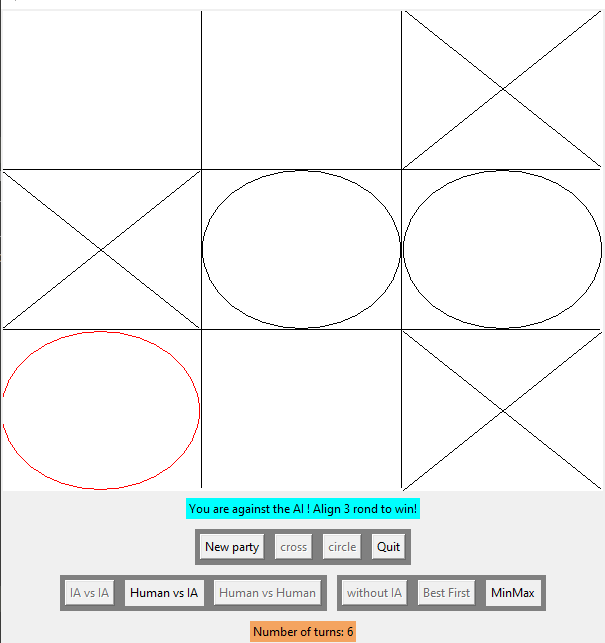
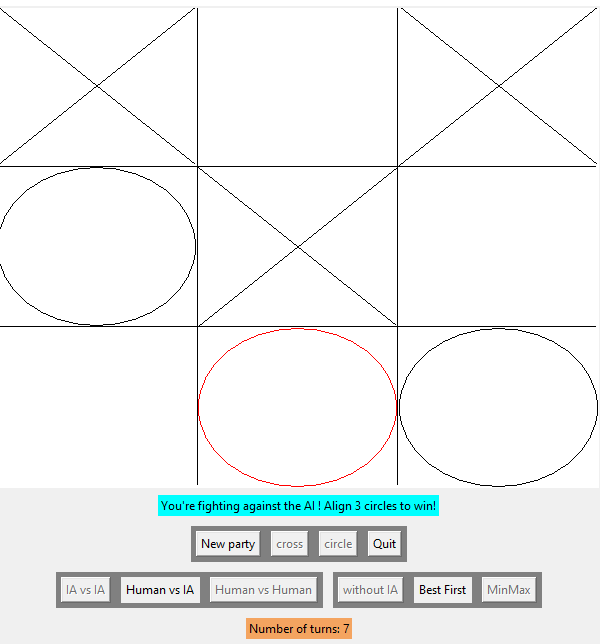
trad error

diff --git a/code.py b/code.py
@@ -145,7 +145,7 @@ class Interface(tk.Tk):
         self.update()
 
     def choixBlanc(self):
-        self.morpion.joueur='rond'
+        self.morpion.joueur='circl'
         self.morpion.reset()
         self.buttonNoir.config(state='disabled')
         self.buttonBlanc.config(state='disabled')
@@ -178,7 +178,7 @@ class Interface(tk.Tk):
                 self.choixMode = 'HVSAI'
                 self.choixIA()
         else:
-            self.zoneTexte.config(text="You are against the AI ! Align 3 " + self.morpion.joueur + " to win!", background='cyan')
+            self.zoneTexte.config(text="You're fighting against the AI ! Align 3 " + self.morpion.joueur + "es to win!", background='cyan')
             self.morpion.is_active = True
             self.morpion.HumanVSAI()
         
@@ -241,10 +241,10 @@ class Interface(tk.Tk):
                 self.HumanVSAI()
 
     def tracer(self, forme, case, color):
-        # Trace la forme dans la case, rond ou cross
+        # Trace la forme dans la case, circl ou cross
         try:
             assert self.morpion.is_active, "Choose a form to play"
-            if forme == 'rond':
+            if forme == 'circl':
                 self.canvas.create_oval(*(self.liste_cases[case]), outline=color)
             else:
                 self.canvas.create_line(*(self.liste_cases[case]), fill=color)
@@ -285,8 +285,8 @@ class Morpion():
     def __init__(self,interface):
         self.interface = interface
         self.winPossibilities = [[0,1,2],[3,4,5],[6,7,8],[0,3,6],[1,4,7],[2,5,8],[0,4,8],[2,4,6]] # Liste de toutes les combinaisons permettant de gagner
-        self.joueurs = ['rond','cross']
-        self.joueur = '' # 'rond' ou 'cross'
+        self.joueurs = ['circl','cross']
+        self.joueur = '' # 'circl' ou 'cross'
         self.AI = None
         self.is_active = False
         self.profondeur = 6
@@ -294,7 +294,7 @@ class Morpion():
         
     def reset(self):
         """Permet de réinitialiser les variables avant de débuter une nouvelle partie"""
-        self.Vo = [] # Vecteur des ronds
+        self.Vo = [] # Vecteur des circls
         self.Vx = [] # Vecteur des cross
         self.VV = [i for i in range(9)] # Vecteur des cases vides
         self.case_a_vider = None
@@ -303,7 +303,7 @@ class Morpion():
         if self.joueur_start == 1:
             self.tile = self.joueur # self.tile correspond au pion qui doit être joué au prochain tour
         else:
-            self.tile = 'cross' if self.joueur == 'rond' else 'rond'
+            self.tile = 'cross' if self.joueur == 'circl' else 'circl'
         self.compteur = 0
         self.case = None
         self.vainqueur = None
@@ -323,7 +323,7 @@ class Morpion():
         self.AI = 'minMax'
         
     def playerTile(self,tile):
-        """Permet de choisir si on joue en tant que rond ou cross"""
+        """Permet de choisir si on joue en tant que circl ou cross"""
         if tile in self.joueurs:
             self.joueur = tile
             
@@ -349,7 +349,7 @@ class Morpion():
             
     def updateHistorique(self):
         """Actualise l'historique"""
-        if self.tile == 'rond':
+        if self.tile == 'circl':
             self.Vo.sort()
             self.historique.append(self.Vo.copy()) # mémorise la liste qui vient d'être modifiée
         else:
@@ -366,17 +366,17 @@ class Morpion():
                 if self.case != None:
                     # place_tile() permute la valeur de self.tile
                     # Mais si la case n'a pas été jouée (i.e. self.case != None), alors il faut repermuter self.tile
-                    self.tile = 'rond' if self.tile == 'cross' else 'cross'
+                    self.tile = 'circl' if self.tile == 'cross' else 'cross'
             elif self.case in self.VV:
                 # Si self.case_a_vider != None, alors il faut supprimer le pion de cette case pour la replacer dans self.case, en vérifiant que self.case soit libre
                 self.remove_tile() # Supprime le pion dans self.case_a_vider
                 self.place_tile() # Rajoute un pion dans self.case, ou sélectionne une nouvelle valeur pour self.case_a_vider
                 if self.case_a_vider != None:
                     # Si une nouvelle case_a_vider a été sélectionné, il faut permuter la valeur de self.tile
-                    self.tile = 'rond' if self.tile == 'cross' else 'cross'
+                    self.tile = 'circl' if self.tile == 'cross' else 'cross'
             elif self.case == self.case_a_vider: # Permet de déselectionner la case à vider en recliquant dessus
                 self.interface.tracer(self.tile, self.case_a_vider, 'black')
-                if self.tile == 'rond' and self.case in self.Vo or self.tile == "cross" and self.case in self.Vx:
+                if self.tile == 'circl' and self.case in self.Vo or self.tile == "cross" and self.case in self.Vx:
                     self.case_a_vider = None
                     
             if self.playMode == "HVSAI" and self.case == None and self.vainqueur == None: # La machine joue si le joueur humain a placé/déplacé un pion
@@ -401,7 +401,7 @@ class Morpion():
         # Permute la valeur de self.tile pour que le prochain tour corresponde à celui de l'adversaire
         if self.winner():
             self.interface.editGagnant()
-        self.tile = 'rond' if self.tile == 'cross' else 'cross' # Change la cross en rond et vice-versa
+        self.tile = 'circl' if self.tile == 'cross' else 'cross' # Change la cross en circl et vice-versa
             
     def remove_tile(self):
         """Supprime le pion présent dans self.case_a_vider"""
@@ -414,7 +414,7 @@ class Morpion():
       
     def human_place_tile(self):
         """Appelé lorsqu'un humain veut placer un pion"""
-        if self.tile == 'rond': # Sélectionne la couleur du pion à jouer
+        if self.tile == 'circl': # Sélectionne la couleur du pion à jouer
             if len(self.Vo)>2:
                 # Cas où on selectionne un pion à déplacer (si on a 3 pions placés)
                 if self.case in self.Vo:
@@ -464,9 +464,9 @@ class Morpion():
         case = self.VV[0] # Case choisit par défaut
         g = self.calculate_singleG(case)
         
-        if self.tile == 'rond' and len(self.Vo)>2 or self.tile == 'cross' and len(self.Vx)>2:
+        if self.tile == 'circl' and len(self.Vo)>2 or self.tile == 'cross' and len(self.Vx)>2:
             for i in range(3): # On essaye de voir quel pion parmi les 3 déjà posés il est judicieux de déplacer
-                if self.tile == 'rond':
+                if self.tile == 'circl':
                     self.Vo.sort() # Ordonne la liste pour éviter de changer l'indice des elements de la liste
                     self.case_a_vider = self.Vo[i]
                     self.Vo.remove(self.case_a_vider) # Simule la suppression d'un des pions déjà placés
@@ -477,7 +477,7 @@ class Morpion():
                 
                 g,case = self.bestFirst_calculateG(g,case) # Calcule la meilleur case à jouer
                 
-                if self.tile == 'rond':
+                if self.tile == 'circl':
                     self.Vo.append(self.case_a_vider) # Remet en place le pion dont ça suppression avait été simulée (sera réellement supprimée une fois qu'on est sûr de sa suppression)
                 else:
                     self.Vx.append(self.case_a_vider) # Remet en place le pion dont ça suppression avait été simulée (sera réellement supprimée une fois qu'on est sûr de sa suppression)
@@ -488,7 +488,7 @@ class Morpion():
             g,case = self.bestFirst_calculateG(g,case) # On a pas de pion a supprimer car il y a moins de 3 pions dans le plateau
             
         self.VV.remove(case) # Rend la case choisie occupée
-        if self.tile == 'rond':
+        if self.tile == 'circl':
             self.Vo.append(case)
         else:
             self.Vx.append(case)
@@ -496,14 +496,14 @@ class Morpion():
         
     def calculate_singleG(self,caseLibre):
         """Calcule la valeur de g correspondant à la case libre"""
-        if self.tile == 'rond':
+        if self.tile == 'circl':
             self.Vo.append(caseLibre)
         else:
             self.Vx.append(caseLibre)
 
         NL1,NL2,NC1,NC2,ND11,ND12,ND21,ND22 = 0,0,0,0,0,0,0,0
         case_x,case_y = caseLibre//3, caseLibre%3 # Numéro de la ligne et de la colonne de la case libre
-        # On part du principe que self.tile == 'rond'. Si ce n'est pas le cas, on intervertit NL1 et NL2, NC1 et NC2, ND1 et ND2
+        # On part du principe que self.tile == 'circl'. Si ce n'est pas le cas, on intervertit NL1 et NL2, NC1 et NC2, ND1 et ND2
         for i in self.Vo:
             i_x,i_y = i//3, i%3 # Numéro de la ligne et de la colonne du pion
             if i_x == case_x:
@@ -525,13 +525,13 @@ class Morpion():
             if j in [2,4,6] and caseLibre in [2,4,6]:
                 ND22 += 1 # La case libre possède un pion ennemi dans sa deuxième diagonale
         
-        if self.tile == 'rond':
+        if self.tile == 'circl':
             self.Vo.remove(caseLibre)
         else:
             self.Vx.remove(caseLibre)
             
-        if not self.tile == 'rond':
-            # On intervertit les indices, parce qu'on était partit du principe que les pions alliés étaient les ronds       
+        if not self.tile == 'circl':
+            # On intervertit les indices, parce qu'on était partit du principe que les pions alliés étaient les circls       
             NL1,NL2 = NL2,NL1
             NC1,NC2 = NC2,NC1
             ND11,ND12 = ND12,ND11
@@ -581,18 +581,18 @@ class Morpion():
         if self.profondeur == 0 or self.profondeur > 6: # Problème de profondeur, on arrête donc l'utilisation de minMax
             print("Problème de profondeur lors du choix de l'utilisation de l'algorithme minMax")
             return
-        plateau = {"cross":self.Vx,"rond":self.Vo,"vide":self.VV} # Regrouppement des 3 listes en un dictionnaire
+        plateau = {"cross":self.Vx,"circl":self.Vo,"vide":self.VV} # Regrouppement des 3 listes en un dictionnaire
         plateauAJouer, valeur = self.executeMinMax(plateau, self.profondeur, "max", self.tile) # Appel récursif pour étudier la meilleur case à jouer en profondeur
         
         # Remplace les anciennes listes Vx,Vo,VV par celles renvoyées par l'algotithme minMax
         self.Vx = plateauAJouer['cross']
-        self.Vo = plateauAJouer['rond']
+        self.Vo = plateauAJouer['circl']
         self.VV = plateauAJouer['vide']
         self.repaint()
         
     def executeMinMax(self, plateau, profondeur, mode, color):
         """Partie récursive de l'algorithme minMax"""
-        inverseColor = 'rond' if color == 'cross' else 'cross'        
+        inverseColor = 'circl' if color == 'cross' else 'cross'        
         inverseMode = 'max' if mode == 'min' else 'min'
         if len(plateau["vide"]) < 8: #Si le plateau n'est pas vierge:
             if profondeur == 0 or self.gagne(inverseColor, plateau):
@@ -642,7 +642,7 @@ class Morpion():
         
     def score_plateau(self, plateau,color):
         """Calcule le score d'un plateau dont la couleur qui vient d'être jouée correspond à color"""
-        inverseColor = 'rond' if color == 'cross' else 'cross'
+        inverseColor = 'circl' if color == 'cross' else 'cross'
         if self.gagne(color, plateau):
             return math.inf
         elif self.gagne(inverseColor, plateau):
@@ -692,7 +692,7 @@ class Morpion():
         liste = []
         Vx,Vo,VV = plateau.values()
         for caseVide in plateau["vide"]:
-            newPlateau = {"cross":Vx.copy(),"rond":Vo.copy(),"vide":VV.copy()}
+            newPlateau = {"cross":Vx.copy(),"circl":Vo.copy(),"vide":VV.copy()}
             newPlateau[color].append(caseVide)
             newPlateau["vide"].remove(caseVide)
             liste.append(newPlateau)
@@ -705,19 +705,19 @@ class Morpion():
         for caseOccup_indice in range(3): # Essaie de déplacer tous pions
             plateau[color].sort() # Ordonne la liste pour ne pas modifier l'indice des éléments
             caseOccup = plateau[color][caseOccup_indice]
-            if color == 'rond':
+            if color == 'circl':
                 Vo.remove(caseOccup)
             else:
                 Vx.remove(caseOccup)
             VV.append(caseOccup)
             for caseVide in plateau["vide"]:
                 if caseVide != caseOccup: # Vérifie qu'on ne crée pas le même plateau que celui de base
-                    newPlateau = {"cross":Vx.copy(),"rond":Vo.copy(),"vide":VV.copy()}
+                    newPlateau = {"cross":Vx.copy(),"circl":Vo.copy(),"vide":VV.copy()}
                     newPlateau[color].append(caseVide)
                     newPlateau["vide"].remove(caseVide)
                     liste.append(newPlateau)
             VV.remove(caseOccup)
-            if color == 'rond':
+            if color == 'circl':
                 Vo.append(caseOccup)
             else:
                 Vx.append(caseOccup)
@@ -730,13 +730,13 @@ class Morpion():
             if case in self.Vx:
                 self.interface.tracer('cross', case, 'black')
             elif case in self.Vo:
-                self.interface.tracer('rond', case, 'black')
+                self.interface.tracer('circl', case, 'black')
             
     def winner(self):
         """Vérifie s'il y a un gagnant dans la configuration actuelle des listes"""
         self.Vo.sort() # Ordonne la liste pour la comparer avec les listes contenues dans self.winPossibilities
         if self.Vo in self.winPossibilities:
-            self.vainqueur = "rond"
+            self.vainqueur = "circl"
             return True
         self.Vx.sort()
         if self.Vx in self.winPossibilities: # Ordonne la liste pour la comparer avec les listes contenues dans self.winPossibilities
@@ -757,13 +757,13 @@ class Morpion():
         return False
     
     def endGame(self):
-        plateau = {"cross":self.Vx,"rond":self.Vo,"vide":self.VV} # Regrouppement des 3 listes en un dictionnaire
+        plateau = {"cross":self.Vx,"circl":self.Vo,"vide":self.VV} # Regrouppement des 3 listes en un dictionnaire
         pointscross = 8-self.gagnantsPossibles(plateau,"cross") # Il y a 8 façons de gagner moins les lignes/colonnes/diagonales bloquées par l'ennemi
-        pointsRond = 8-self.gagnantsPossibles(plateau,"rond")
-        if pointscross > pointsRond:
-            self.vainqueur = "circle ("+str(pointscross)+" points vs "+str(pointsRond)+" points)."
+        pointscircl = 8-self.gagnantsPossibles(plateau,"circl")
+        if pointscross > pointscircl:
+            self.vainqueur = "circl ("+str(pointscross)+" points vs "+str(pointscircl)+" points)."
         else:
-            self.vainqueur = "cross ("+str(pointsRond)+" points vs "+str(pointscross)+" points)."
+            self.vainqueur = "cross ("+str(pointscircl)+" points vs "+str(pointscross)+" points)."
         
 if __name__ == "__main__" :
     jeu = Interface()
